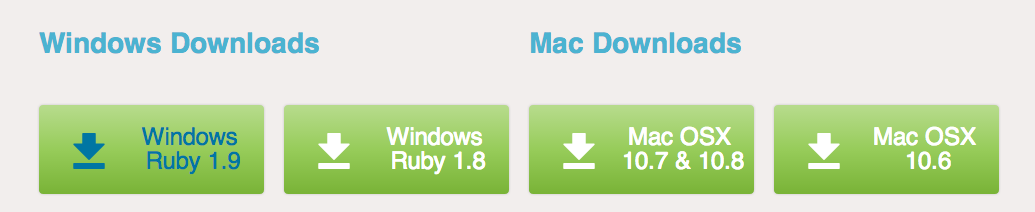
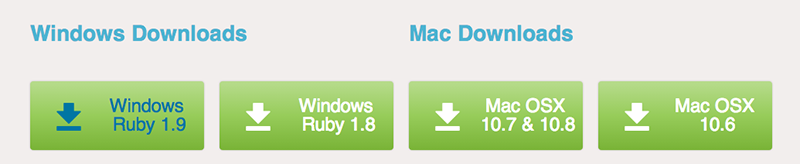
updates to the railsinstaller code

diff --git a/app/assets/stylesheets/_install_steps.scss b/app/assets/stylesheets/_install_steps.scss
@@ -46,6 +46,18 @@ section {
 .choose_os_version, .install_rails {
   background-color: #5B6474;
 }
+
+.railsinstaller {
+    .option {
+    background-color: rgba(255,255,255,0.9);
+    border-color: #fff;
+    color: #72B49B;
+    @extend .btn;
+    @extend .btn-large;
+    @extend .btn-primary;
+  }
+}
+
 .find_the_command_line, .install_rvm_and_ruby {
   background-color: #3B4960;
    .note:before {
